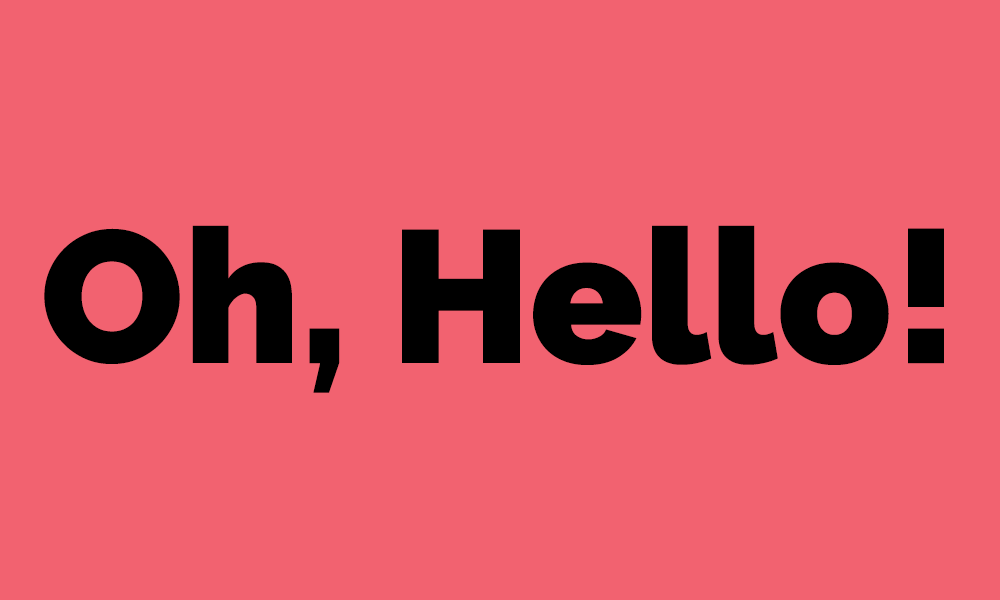
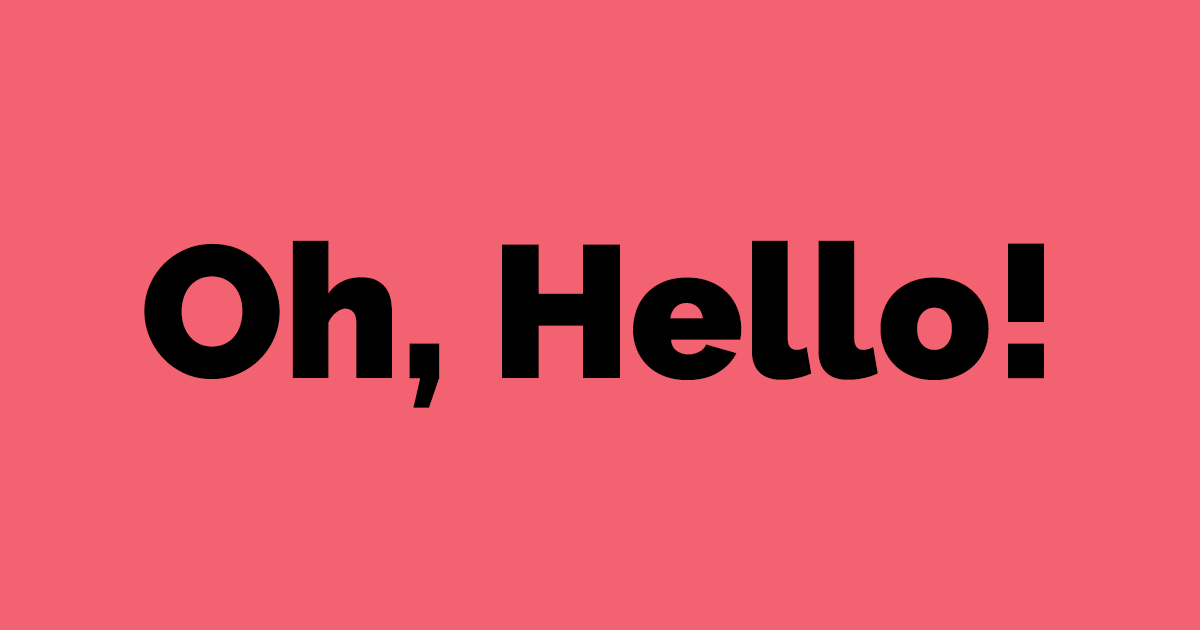
change to og image

Changed region(s): [[0.403, 0.36, 0.961, 0.63], [0.031, 0.36, 0.372, 0.66]]

diff --git a/about.html b/about.html
@@ -7,7 +7,7 @@
 <meta property="og:type"               content="website" />
 <meta property="og:title"              content="My name is Shelbey Hunt and this is my website" />
 <meta property="og:description"        content="Come stop by and get to know about me and what I do, I have cookies!  Of course, this is a website so I'm not sure how I can give them to you... guess I'll just eat them myself." />
-<meta property="og:image"              content="https://shebhnt.github.io/assets/images/fbimage.jpg" />
+<meta property="og:image"              content="https://shebhnt.github.io/assets/images/fbimage.png" />
 <meta name="viewport" content="width=device-width, initial-scale=1.0">
 <link rel="stylesheet" href="assets/css/main.css">
 <link href="https://fonts.googleapis.com/css?family=Raleway:400,900" rel="stylesheet">

diff --git a/contact.html b/contact.html
@@ -7,7 +7,7 @@
 <meta property="og:type"               content="website" />
 <meta property="og:title"              content="My name is Shelbey Hunt and this is my website" />
 <meta property="og:description"        content="Come stop by and get to know about me and what I do, I have cookies!  Of course, this is a website so I'm not sure how I can give them to you... guess I'll just eat them myself." />
-<meta property="og:image"              content="https://shebhnt.github.io/assets/images/fbimage.jpg" />
+<meta property="og:image"              content="https://shebhnt.github.io/assets/images/fbimage.png" />
 <meta name="viewport" content="width=device-width, initial-scale=1.0">
 <link rel="stylesheet" href="assets/css/main.css">
 <link href="https://fonts.googleapis.com/css?family=Raleway:400,900" rel="stylesheet">

diff --git a/hire.html b/hire.html
@@ -7,7 +7,7 @@
 <meta property="og:type"               content="website" />
 <meta property="og:title"              content="My name is Shelbey Hunt and this is my website" />
 <meta property="og:description"        content="Come stop by and get to know about me and what I do, I have cookies!  Of course, this is a website so I'm not sure how I can give them to you... guess I'll just eat them myself." />
-<meta property="og:image"              content="https://shebhnt.github.io/assets/images/fbimage.jpg" />
+<meta property="og:image"              content="https://shebhnt.github.io/assets/images/fbimage.png" />
 <meta name="viewport" content="width=device-width, initial-scale=1.0">
 <link rel="stylesheet" href="assets/css/main.css">
 <link href="https://fonts.googleapis.com/css?family=Raleway:400,900" rel="stylesheet">

diff --git a/index.html b/index.html
@@ -7,7 +7,7 @@
 <meta property="og:type"               content="website" />
 <meta property="og:title"              content="My name is Shelbey Hunt and this is my website" />
 <meta property="og:description"        content="Come stop by and get to know about me and what I do, I have cookies!  Of course, this is a website so I'm not sure how I can give them to you... guess I'll just eat them myself." />
-<meta property="og:image"              content="https://shebhnt.github.io/assets/images/fbimage.jpg" />
+<meta property="og:image"              content="https://shebhnt.github.io/assets/images/fbimage.png" />
 <meta name="viewport" content="width=device-width, initial-scale=1.0">
 <link rel="stylesheet" href="assets/css/main.css">
 <link href="https://fonts.googleapis.com/css?family=Raleway:400,900" rel="stylesheet">

diff --git a/thankyou.html b/thankyou.html
@@ -7,7 +7,7 @@
 <meta property="og:type"               content="website" />
 <meta property="og:title"              content="My name is Shelbey Hunt and this is my website" />
 <meta property="og:description"        content="Come stop by and get to know about me and what I do, I have cookies!  Of course, this is a website so I'm not sure how I can give them to you... guess I'll just eat them myself." />
-<meta property="og:image"              content="https://shebhnt.github.io/assets/images/fbimage.jpg" />
+<meta property="og:image"              content="https://shebhnt.github.io/assets/images/fbimage.png" />
 <meta name="viewport" content="width=device-width, initial-scale=1.0">
 <link rel="stylesheet" href="assets/css/main.css">
 <link href="https://fonts.googleapis.com/css?family=Raleway:400,900" rel="stylesheet">

diff --git a/work.html b/work.html
@@ -7,7 +7,7 @@
 <meta property="og:type"               content="website" />
 <meta property="og:title"              content="My name is Shelbey Hunt and this is my website" />
 <meta property="og:description"        content="Come stop by and get to know about me and what I do, I have cookies!  Of course, this is a website so I'm not sure how I can give them to you... guess I'll just eat them myself." />
-<meta property="og:image"              content="https://shebhnt.github.io/assets/images/fbimage.jpg" />
+<meta property="og:image"              content="https://shebhnt.github.io/assets/images/fbimage.png" />
 <meta name="viewport" content="width=device-width, initial-scale=1.0">
 <link rel="stylesheet" href="assets/css/main.css">
 <link href="https://fonts.googleapis.com/css?family=Raleway:400,900" rel="stylesheet">
